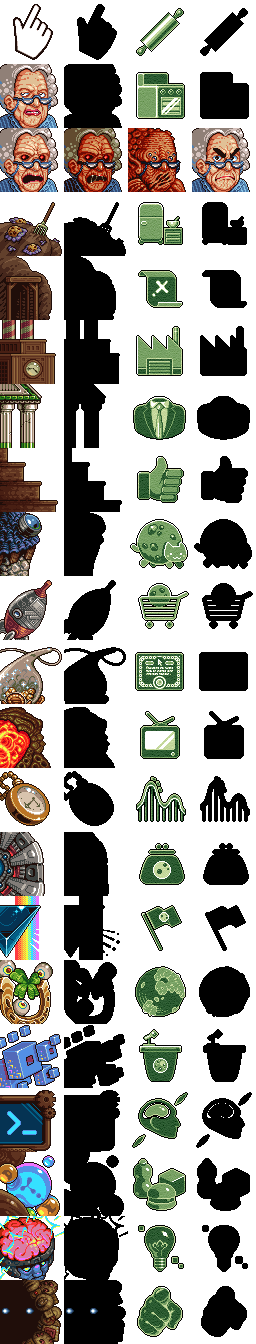
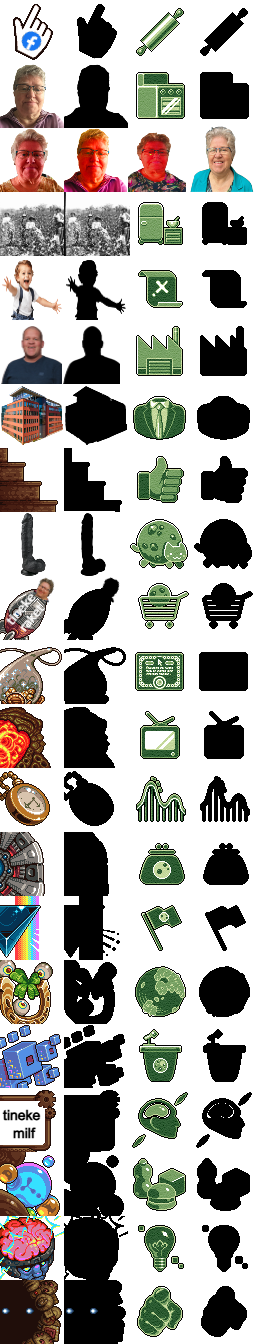
nog een kleine update

diff --git a/loc/NL.js b/loc/NL.js
@@ -859,8 +859,8 @@ AddLanguage('NL','dutch',{
 	"cursor": "Facebook Klikker",
 	"cursors": "Facebook Klikkers",
 	"%1 cursor": [
-		"%1 cursor",
-		"%1 cursors"
+		"%1 Facebook Klikker",
+		"%1 Facebook Klikkers"
 	],
 	"[Cursor quote]Autoclicks once every 10 seconds.": "Klikt elke 10 seconden automatisch.",
 	"[Cursor business name]Rolling pin": "Deegroller",
@@ -869,8 +869,8 @@ AddLanguage('NL','dutch',{
 	"grandma": "Tineke Sieders",
 	"grandmas": "Tineke Sieders",
 	"%1 grandma": [
-		"%1 oma",
-		"%1 oma's"
+		"%1 Tineke Sieders",
+		"%1 Tineke Sieders"
 	],
 	"[Grandma quote]A nice grandma to bake more cookies.": "Een lief omaatje die koekjes voor je bakt.",
 	"[Grandma business name]Oven": "Oven",
@@ -879,8 +879,8 @@ AddLanguage('NL','dutch',{
 	"farm": "Slavenij",
 	"farms": "Slavenijen",
 	"%1 farm": [
-		"%1 boerderij",
-		"%1 boerderijen"
+		"%1 Slavenij",
+		"%1 Slavenijen"
 	],
 	"[Farm quote]Grows cookie plants from cookie seeds.": "Laat katoenplukkers voor je werken.",
 	"[Farm business name]Kitchen": "Negerjonk",
@@ -889,18 +889,18 @@ AddLanguage('NL','dutch',{
 	"mine": "Slaaf",
 	"mines": "Slaven",
 	"%1 mine": [
-		"%1 mijn",
-		"%1 mijnen"
+		"%1 Slaaf",
+		"%1 Slaven"
 	],
 	"[Mine quote]Mines out cookie dough and chocolate chips.": "Verkracht kinderen voor koeken.",
 	"[Mine business name]Secret recipe": "Geheim recept",
 	"[Mine business quote]These give you the edge you need to outsell those pesky competitors.": "Dat heb je nodig om meer te kunnen verkopen dan je concurrenten.",
-	"Factory": "Fabriek",
-	"factory": "fabriek",
-	"factories": "fabrieken",
+	"Factory": "Rogier Eradus",
+	"factory": "Rogier Eradus",
+	"factories": "Rogier Eradus",
 	"%1 factory": [
-		"%1 fabriek",
-		"%1 fabrieken"
+		"%1 Rogier Eradus",
+		"%1 Rogier Eradus"
 	],
 	"[Factory quote]Produces large quantities of cookies.": "Produceert grote hoeveelheden koekjes.",
 	"[Factory business name]Factory": "Fabriek",
@@ -925,12 +925,12 @@ AddLanguage('NL','dutch',{
 	"[Temple quote]Full of precious, ancient chocolate.": "Tjokvol eeuwenoude chocolade van onschatbare waarde",
 	"[Temple business name]Like": "Vind ik leuk",
 	"[Temple business quote]Your social media page is going viral! Amassing likes is the key to a lasting online presence and juicy advertising deals.": "Je socialemediapagina gaat viraal! Verzamel zoveel mogelijk vind-ik-leuks zodat je online goed te vinden bent en de beste deals krijgt.",
-	"Wizard tower": "Tovenaarstoren",
-	"wizard tower": "tovenaarstoren",
-	"wizard towers": "tovenaarstorens",
+	"Wizard tower": "Dildo",
+	"wizard tower": "Dildo",
+	"wizard towers": "Dildos",
 	"%1 wizard tower": [
-		"%1 tovenaarstoren",
-		"%1 tovenaarstorens"
+		"%1 Dildo",
+		"%1 Dildos"
 	],
 	"[Wizard tower quote]Summons cookies with magic spells.": "Roept koekjes op met magische toverspreuken.",
 	"[Wizard tower business name]Meme": "Meme",
